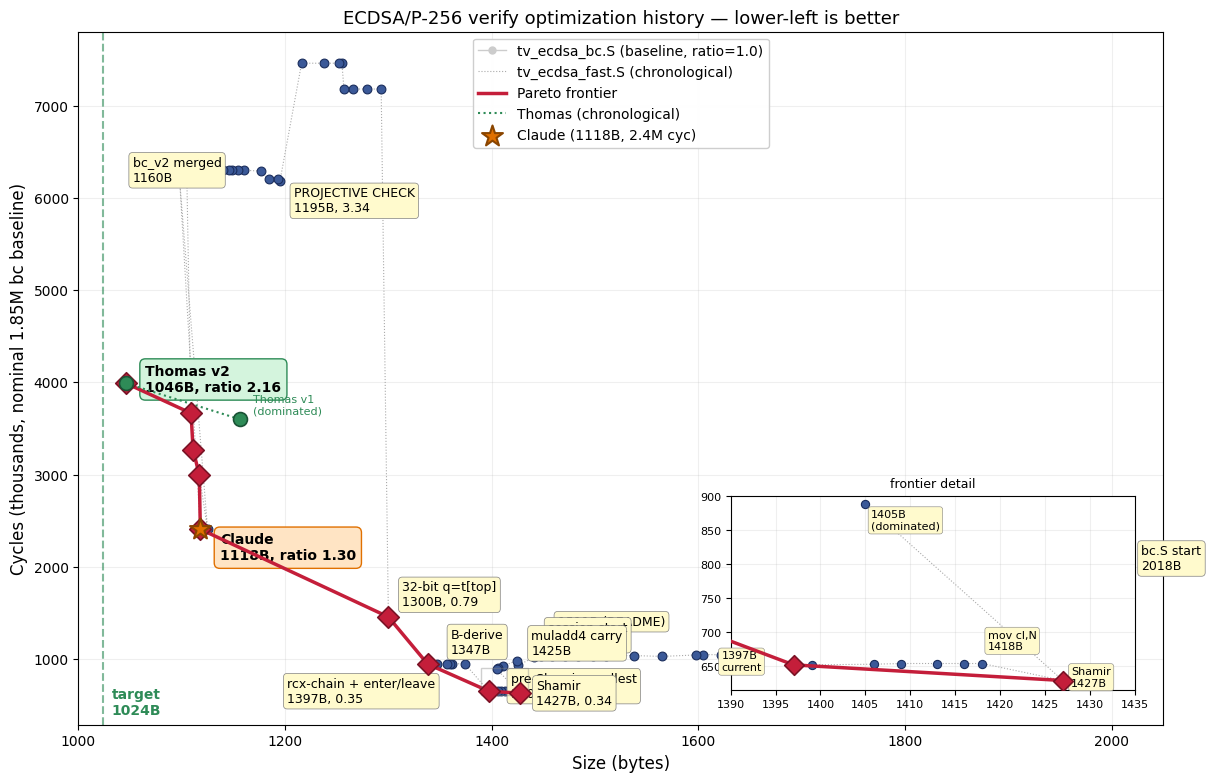
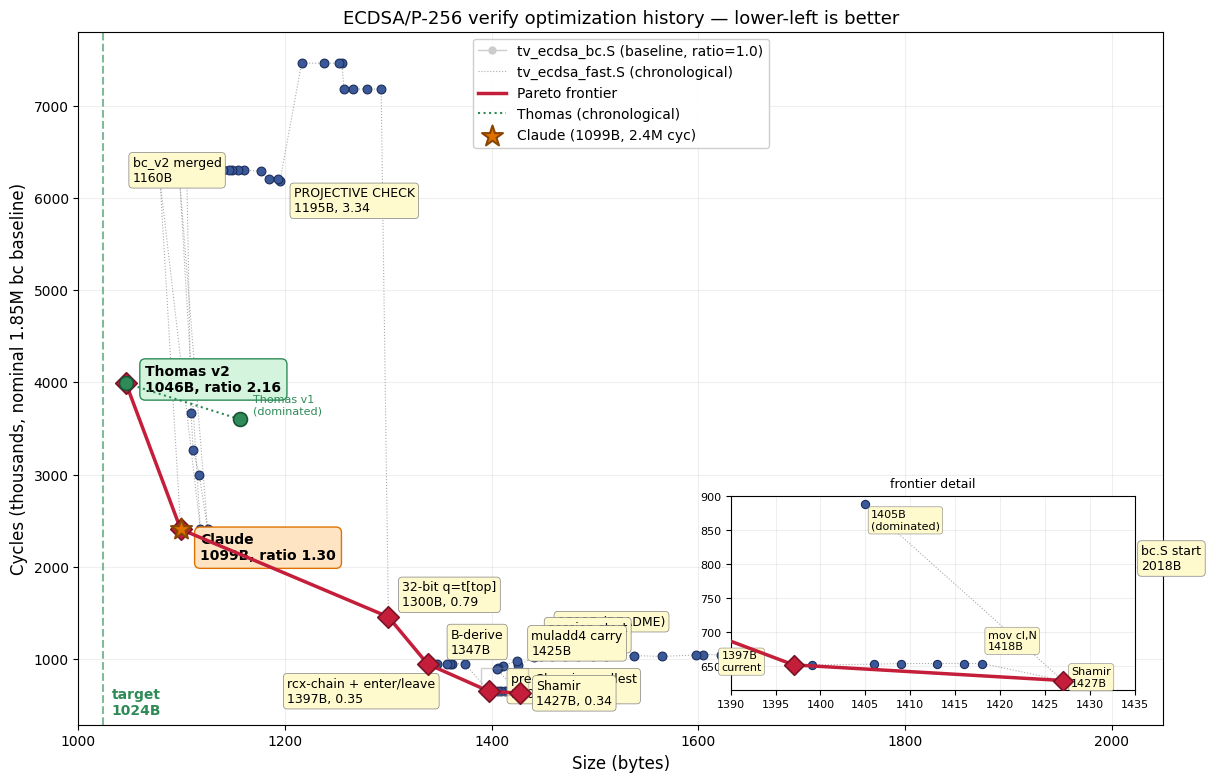
Chart: 1079B SMALL_MUL8 / 1099B default after MULCN + r12
−19B combined (MULCN −10, r12 drop −9).  33B over Thomas v2,
55B to target.  SMALL_MUL8 still dominated.

Changed region(s): [[0.1222, 0.5217, 0.3055, 0.7673], [0.0917, 0.491, 0.1528, 0.5524], [0.4889, 0.1535, 0.55, 0.1841]]

diff --git a/docs/plot_history.py b/docs/plot_history.py
@@ -94,7 +94,10 @@ FAST = [
     (1125, 2407, None),   # +8B: 64-bit schoolbook.        ratio 1.30
     # --- r13 single-use inlined (−7B, cold path, 0 cyc cost) ---
     (1098, 6186, None),   # SMALL_MUL8 — still dominated
-    (1118, 2407, None),   # default — CLAUDE star
+    (1118, 2407, None),   # 64-bit schoolbook + r13 drop
+    # --- MULCN (n·z² direct) + r12 drop (−19B combined) ---
+    (1079, 6186, None),   # SMALL_MUL8 — still dominated
+    (1099, 2407, None),   # default — CLAUDE star
 ]
 
 def pareto(pts):
@@ -111,7 +114,7 @@ def pareto(pts):
 # he reclaimed the size corner.  But our 1117B stays Pareto: faster.
 THOMAS_V1 = (1156, 3600, "Thomas v1\n1156B, 1.95")
 THOMAS    = (1046, 3990, "Thomas v2\n1046B, 2.16")   # new size record
-CLAUDE    = (1118, 2407, "Claude\n1118B, 1.30")       # Pareto: faster
+CLAUDE    = (1099, 2407, "Claude\n1099B, 1.30")       # Pareto: faster
 TARGET    = 1024
 
 ALL_PTS = FAST + [THOMAS, THOMAS_V1]
